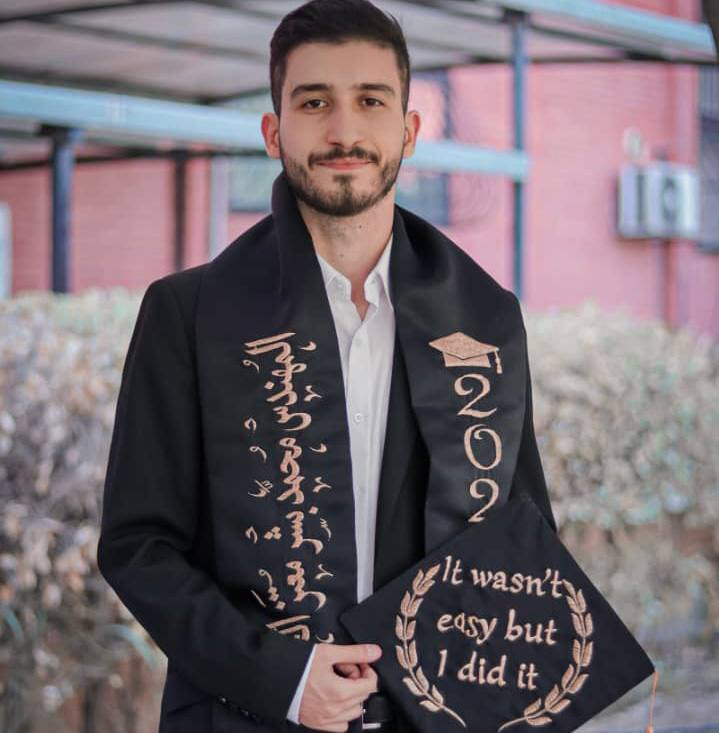
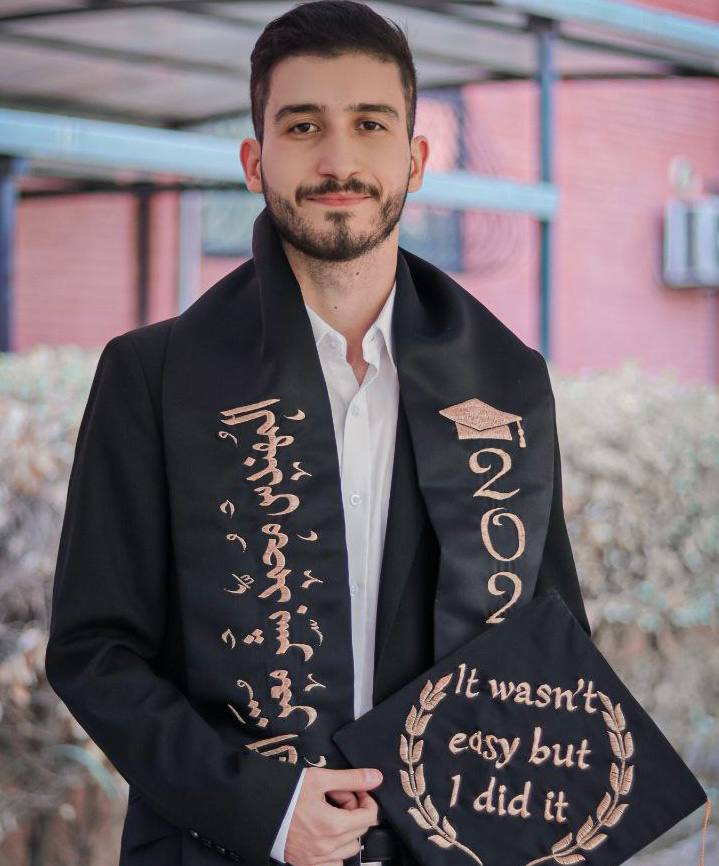
fix image

diff --git a/src/sections/OurTeam/OurTeamSection.js b/src/sections/OurTeam/OurTeamSection.js
@@ -38,9 +38,9 @@ const OurTeamSection = () => {
                     <OurTeamCardsUp
                     Key={2}
                     EndPoint={"jpg"}
-                    name={"Backend"}
+                    name={"Back End"}
                     fullName={"Nagham Alsaade"}
-                    Position={"Backend developer"}
+                    Position={"Back End developer"}
                     />
                 </div>
                 <div className='mid_second'>
@@ -48,7 +48,7 @@ const OurTeamSection = () => {
                     Key={17}
                     EndPoint={"jpg"}
                     name={"Designer"}
-                    fullName={"Elia"}
+                    fullName={"Elia Salibi"}
                     Position={"Designer"}
                     />
                 </div>
@@ -63,7 +63,7 @@ const OurTeamSection = () => {
                     EndPoint={"jpg"}
                     name={"Team Leader"}
                     fullName={"Loubna Ourabi"}
-                    Position={"Team Leader & Senior Backend developer"}
+                    Position={"Team Leader & Senior Back End developer"}
                     />
                 </div>
                 
@@ -75,9 +75,9 @@ const OurTeamSection = () => {
                     <OurTeamCardsUp
                     Key={4}
                     EndPoint={"jpg"}
-                    name={"Frontend"}
+                    name={"Front End"}
                     fullName={"Moaz Dawalibi"}
-                    Position={"Frontend developer"}
+                    Position={"Front End developer"}
                     />
                 </div>
 
@@ -86,7 +86,7 @@ const OurTeamSection = () => {
                     Key={14}
                     EndPoint={"jpg"}
                     name={"Social Media"}
-                    fullName={"Walid"}
+                    fullName={"Walid Alssaid"}
                     Position={"Social Media"}
                     />
                 </div>
@@ -98,11 +98,12 @@ const OurTeamSection = () => {
 
             <div className='mid_first'>
                     <OurTeamCardsUp
-                    Key={10}
-                    EndPoint={"png"}
-                    name={"FullStack"}
+                    Key={31}
+                    className="ibrahim_image"
+                    EndPoint={"jpg"}
+                    name={"Full Stack"}
                     fullName={"Ibrahim Karimeddin"}
-                    Position={"FullStack developer"}
+                    Position={"Full Stack developer"}
                     />
                 </div>
 
@@ -111,8 +112,8 @@ const OurTeamSection = () => {
                     Key={3}
                     EndPoint={"jpg"}
                     name={"Mobile"}
-                    fullName={"Bisher alkhoja"}
-                    Position={"Mobile developer."}
+                    fullName={"Bishr alkhoja"}
+                    Position={"Mobile application developer"}
                     />
                 </div>
 

diff --git a/src/components/ourTeam/OurTeamCardsUp.js b/src/components/ourTeam/OurTeamCardsUp.js
@@ -2,7 +2,7 @@ import React from 'react'
 import useHover from '../../hooks/useHover';
 import { useTranslation } from 'react-i18next';
 
-const OurTeamCardsUp = ({name, fullName, Position,  props, Key, EndPoint}) => {
+const OurTeamCardsUp = ({name, fullName, Position,  props, Key, EndPoint , className=""}) => {
     const { isHovered, handleMouseEnter, handleMouseLeave } = useHover();
     const isHoveredClassName = isHovered ? `Card_1 Card_1_Hovered` : `Card_1`;
     const {t} = useTranslation();
@@ -31,7 +31,7 @@ const OurTeamCardsUp = ({name, fullName, Position,  props, Key, EndPoint}) => {
               onMouseLeave={handleMouseLeave}
             >
               <div className={"Card_2_Top" }>
-                <img src={`../assets/Team/Team${Key}.${EndPoint}`} alt="" />
+                <img src={`../assets/Team/Team${Key}.${EndPoint}`} alt="" className={className}/>
 
               </div>
 

diff --git a/src/Style/App/App.scss b/src/Style/App/App.scss
@@ -36,3 +36,8 @@ a{
     src: url('../../utils/Fonts/Roboto-Bold.ttf');
     // font-display: swap;
   }
+
+
+  .ibrahim_image {
+      object-fit: fill!important;
+  }
